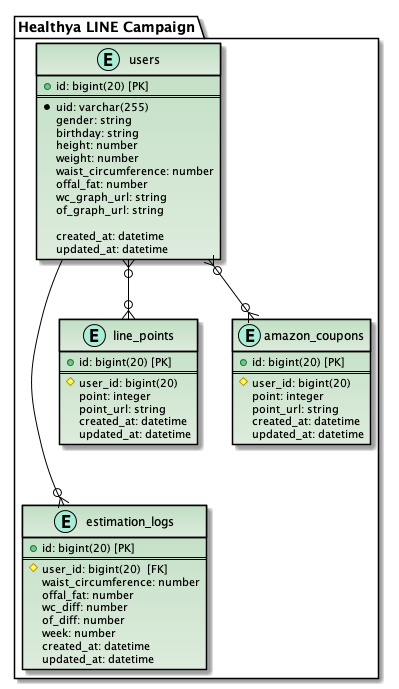
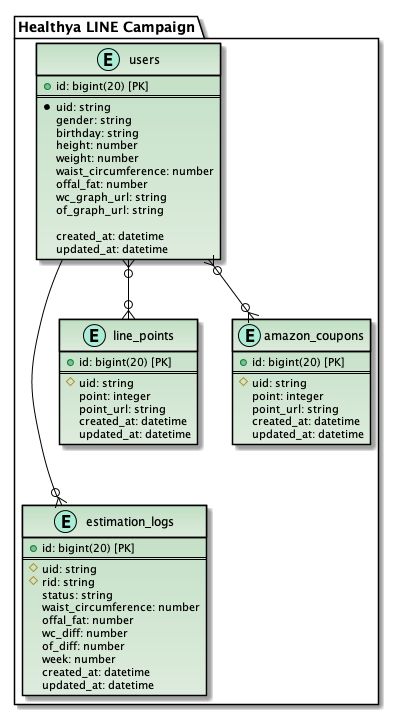
Add API: GET /api/bodygram/estimation.

Changed region(s): [[0.0301, 0.0, 0.9624, 1.0], [0.0902, 0.4267, 0.1203, 0.4877]]

diff --git a/src/functions/getBodygramEstimation/index.ts b/src/functions/getBodygramEstimation/index.ts
@@ -1,0 +1,64 @@
+import { APIGatewayEvent, APIGatewayProxyHandler, APIGatewayProxyResult } from 'aws-lambda'
+
+// const env = process.env
+
+const handler: APIGatewayProxyHandler = async (event: APIGatewayEvent) => {
+    if (event.httpMethod !== 'GET') {
+        throw new Error(`postMethod only accepts POST method, you tried: ${event.httpMethod} method.`)
+    }
+    if (!event.queryStringParameters || !event.queryStringParameters.rid) {
+        return {
+            statusCode: 400,
+            body: JSON.stringify({message: 'Bad Request.'}),
+            headers: {
+                'Content-Type': 'application/json',
+            },
+        }
+    }
+    // All log statements are written to CloudWatch
+    // console.info('received:', event)
+    // console.log(env)
+
+    let response: APIGatewayProxyResult
+
+    try {
+        // TODO: Get user_id from API header token or query.
+        const rid = event.queryStringParameters ? event.queryStringParameters.rid : null
+        console.log(rid)
+        // TODO: get estimation_log from Mysql(RDS).
+        response = {
+            statusCode: 200,
+            body: JSON.stringify({ // 仮レスポンス
+                id: 1,
+                rid,
+                uid: 'user_id',
+                status: 'requested',
+                waist_circumference: 80,
+                offal_fat: 20,
+                wc_diff: 0,
+                of_diff: 0,
+                week: 1,
+                created_at: '2019-11-13 18:34:52',
+                updated_at: '2019-11-13 18:34:52',
+            }),
+            headers: {
+                'Content-Type': 'application/json',
+            },
+        }
+    } catch(e) {
+        response = {
+            statusCode: 500,
+            body: JSON.stringify(e),
+            headers: {
+                'Content-Type': 'application/json',
+            },
+        }
+    }
+
+    // All log statements are written to CloudWatch
+    console.info(event.headers['X-Api-Key'])
+    console.info(`response from: ${event.path} statusCode: ${response.statusCode} body: ${response.body}`)
+    return response
+}
+
+export {handler}

diff --git a/doc/api_spec/data_structures/bodygram.md b/doc/api_spec/data_structures/bodygram.md
@@ -1,5 +1,14 @@
 # Data Structures
 
+## BodyGramStatus (enum)
+
+### Members
+
+- `requested` - Bodygram: `requested`.
+- `pending` - Bodygram: `pendingAutomaticEstimation`
+- `wcCompleted` - Bodygram `completed`
+- `ofCompleted` - Completed status of Offal fat estimation.
+
 ## BodyGramToken (object)
 
 - `jwt_token`:   `token` (string, required) - JWT of BodyGram.
@@ -13,6 +22,20 @@
 
 - `content` (BodyGramContent, fixed) - Content.
 - `error`:  `[inspect error]` (string, optional) - Error message.
+
+## BodyGramEstimationResponse (object)
+
+- `id`:                  `1` (number, required)
+- `uid`:                 `xxx` (string, required)
+- `rid`:                 `aaa` (string, required)
+- `status`               (BodyGramStatus, required)
+- `waist_circumference`: `80.0` (number, required)
+- `offal_fat`:           `20.0` (number, required)
+- `wc_diff`:             `0.0` (number, required)
+- `of_diff`:             `0.0` (number, required)
+- `week`:                `1` (number, required)
+- `created_at`:          `2019-11-13 18:34:52` (string, required)
+- `updated_at`:          `2019-11-13 18:34:52` (string, required)
 
 ## NotifyEstimationRequest (object)
 

diff --git a/doc/api_spec/bodygram_api.md b/doc/api_spec/bodygram_api.md
@@ -21,7 +21,10 @@ Get user token.
 - Response 401 (application/json)
   - Attributes (UnAuthorized)
 
-## Bodygram [/api/bodygram/estimation]
+## Bodygram [/api/bodygram/estimation{?rid}]
+
+- Parameters
+  - `rid`: `d69b5155-beba-42c9-b3cd-c17068c3c642` (string, required)
 
 ### GetBodyGramEstimation [GET]
 
@@ -35,7 +38,7 @@ Retrieve own estimation result.
             token: user_token
 
 - Response 200 (application/json)
-  - Attributes (object)
+  - Attributes (BodyGramEstimationResponse)
 - Response 400 (application/json)
   - Attributes (BadRequest)
 - Response 401 (application/json)
